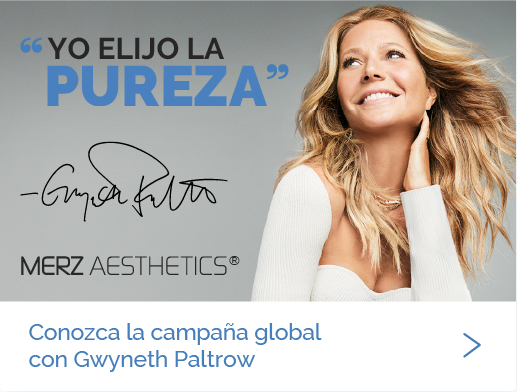
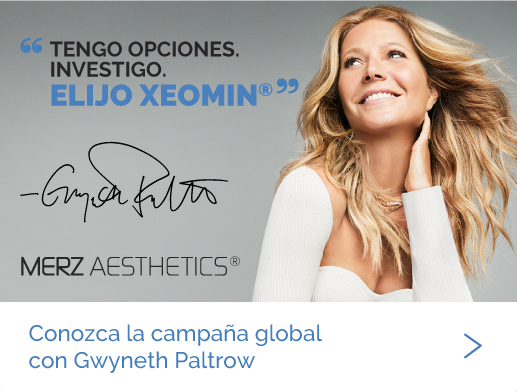
change some campaing text and GP button

diff --git a/src/components/Campaign/CampaignMov.js b/src/components/Campaign/CampaignMov.js
@@ -31,7 +31,7 @@ export default class CampaignMov extends Component{
                   <div className="VidPureMov">
                      <p className="VideoPureText RalewayBold fonrt 40">
                         <b>
-                           "Ayudar a las mujeres a encontrar productos puros hace parte de mi rutina"
+                        “Admito que no era fan de las inyecciones antiarrugas para suavizar mis líneas de expresión. Entonces encontré una que es diferente”
                         </b>
                      </p>
                      <iframe className="VideoMobile VidPure" title="vimeo-player" src="https://player.vimeo.com/video/552619675" /* width="640" height="360" */ frameborder="0" allowfullscreen></iframe>
@@ -50,7 +50,7 @@ export default class CampaignMov extends Component{
                      <div className="col-12">
                         <p className="VideoPurifyText RalewayBold font40">
                            <b>
-                              "¿Están listos para la pureza?"
+                           “Me encanta Xeomin”
                            </b>
                         </p>
                      </div>

diff --git a/src/components/Campaign/CampaignWeb.js b/src/components/Campaign/CampaignWeb.js
@@ -78,7 +78,7 @@ export default class CampaignWeb extends Component{
                               sequenceIndex={3}
                            >
                            <b>
-                              "Ayudar a las mujeres a encontrar productos puros hace parte de mi rutina"
+                           “Admito que no era fan de las inyecciones antiarrugas para suavizar mis líneas de expresión. Entonces encontré una que es diferente”
                            </b>
                            </Animate>
                         </p>
@@ -121,7 +121,7 @@ export default class CampaignWeb extends Component{
                      <div className="col-4 VideoTitle">
                         <p className="VideoPurifyText RalewayBold font30">
                            <b>
-                              "¿Están listos para la pureza?"
+                           “Me encanta Xeomin”
                            </b>
                         </p>
                      </div>
